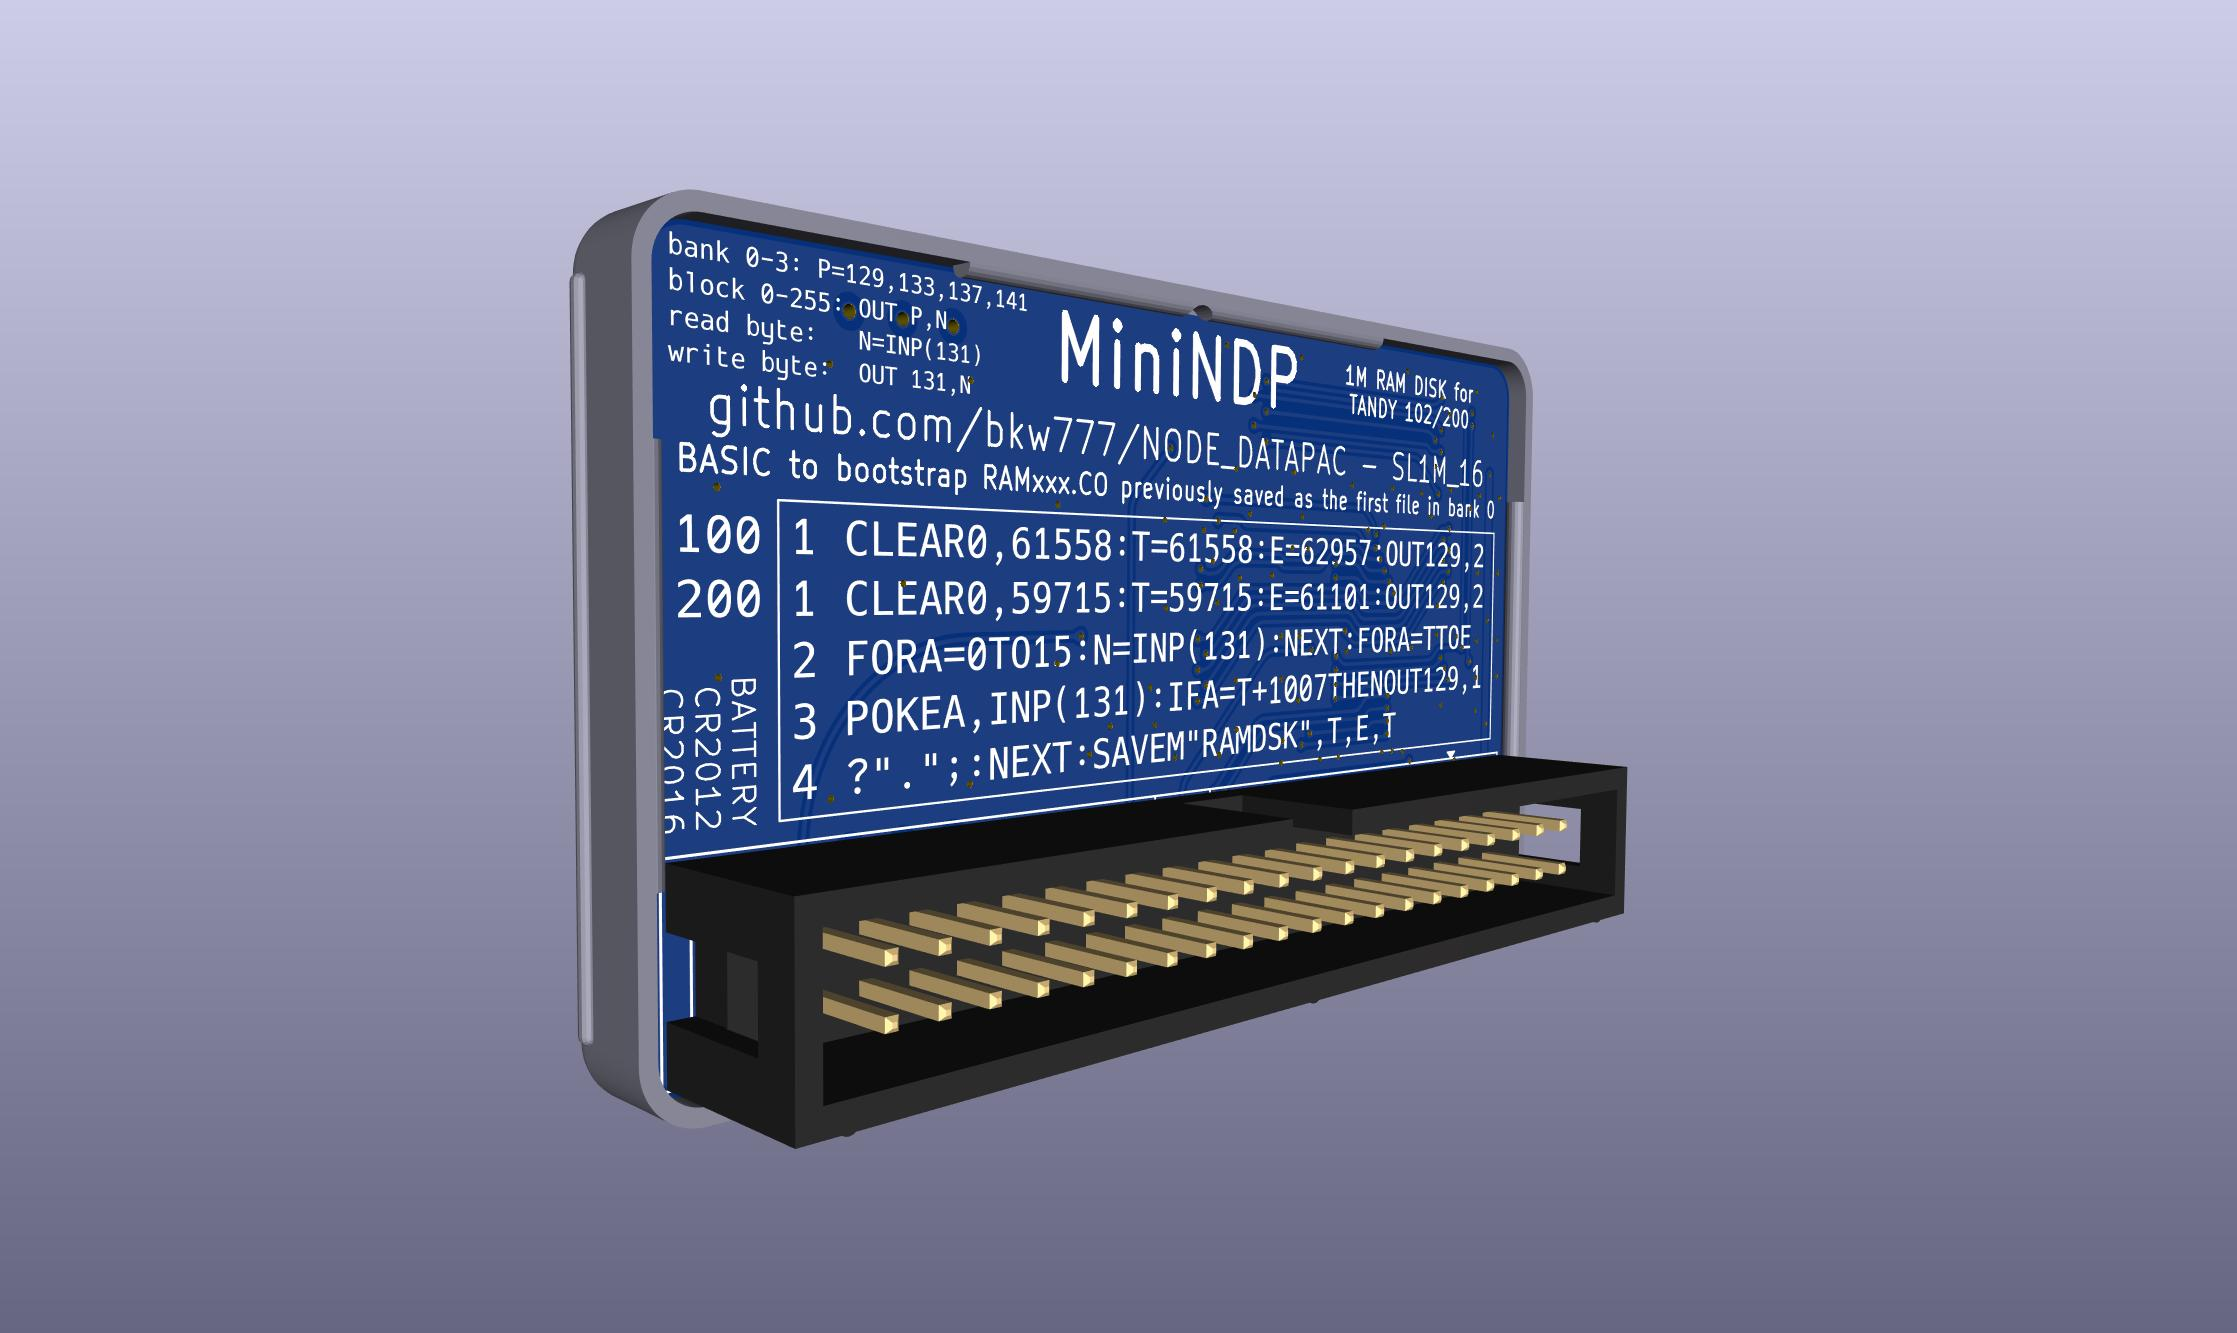
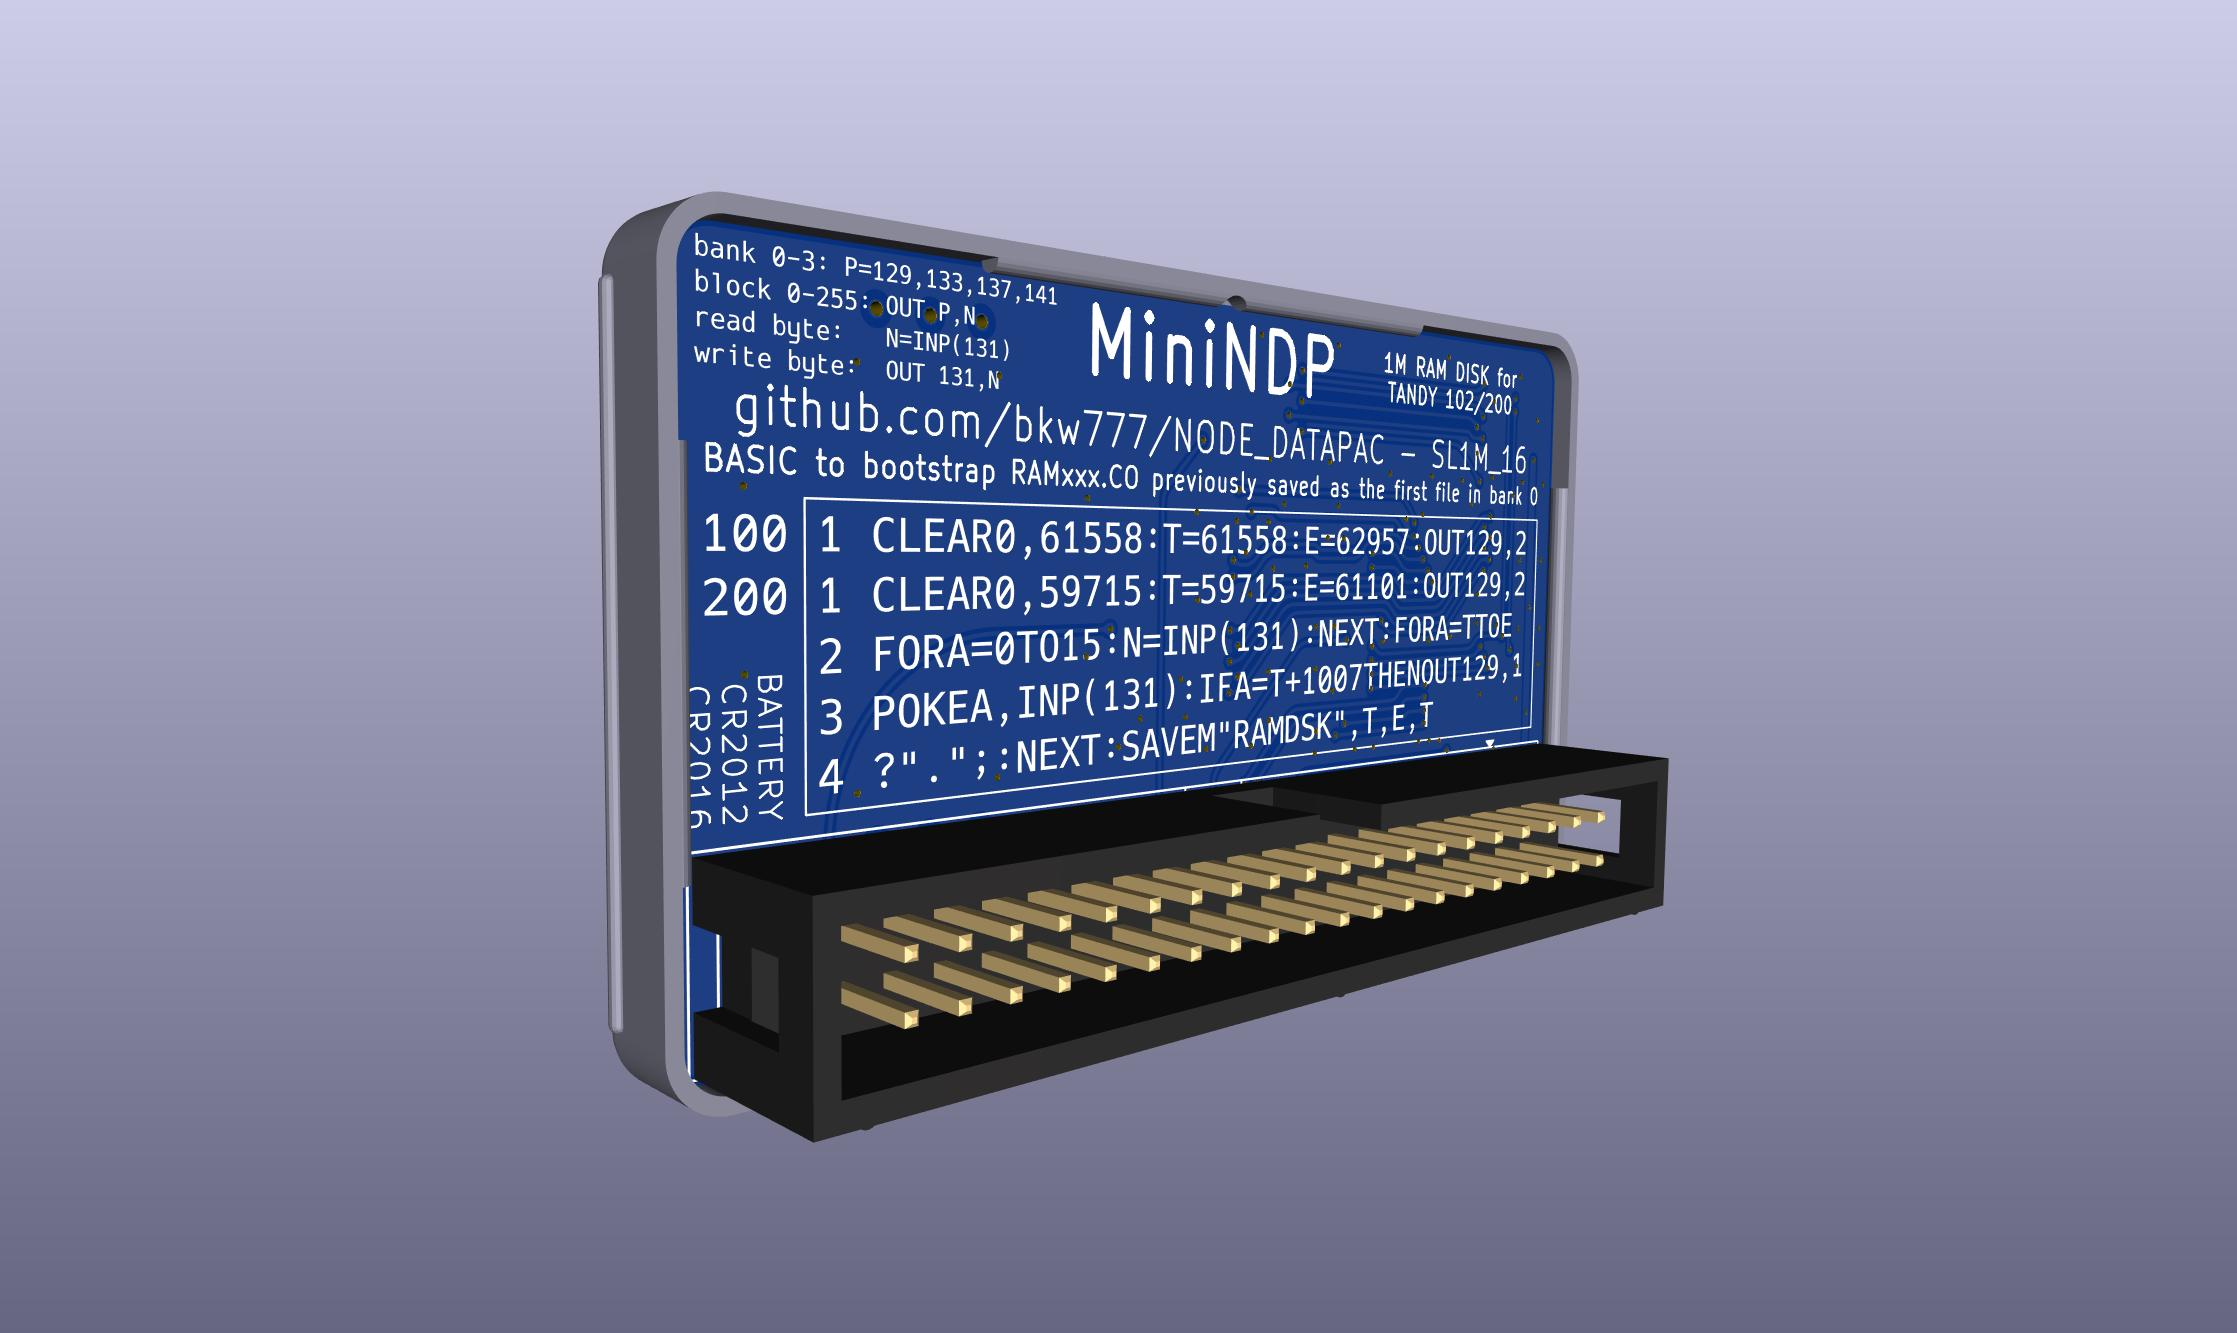
readme links to pcbs & covers, sl1m remove via from batt terminal

Changed region(s): [[0.2468, 0.123, 0.7711, 0.8612]]

diff --git a/README.md b/README.md
@@ -366,7 +366,7 @@ Unlike the original DATAPAC, this actually fits into the bus port on the Model 2
 [MiniNDP.bom.csv](PCB/out/MiniNDP.bom.csv)
 
 BOM: [DigiKey](https://www.digikey.com/short/m4h7bmh0)  
-[MiniNDP EZ1M_14 PCB @ OSHPark](https://oshpark.com/shared_projects/pUS0y3tZ)  
+[MiniNDP EZ1M_16 PCB @ OSHPark](https://oshpark.com/shared_projects/7Jpm6F6c)  
 Cover: [MiniNDP_Cover.stl](COVER/out/MiniNDP_Cover.stl) -- [Cover @ JawsTec](https://shop.jawstec.com/3d-printed-minindp-cover_p658.php)  
 [Both PCB & Cover @ PCBWAY](https://www.pcbway.com/project/shareproject/MiniNDP_mini_Node_DataPac_d08018c4.html)  
 
@@ -383,7 +383,7 @@ Cover: [MiniNDP_Cover.stl](COVER/out/MiniNDP_Cover.stl) -- [Cover @ JawsTec](htt
 ![](PCB/out/MiniNDP_u1M.svg)  
 
 BOM: [MiniNDP_u1M.bom.csv](PCB/out/MiniNDP_u1M.bom.csv)  
-[MiniNDP u1M_030 PCB @ OSHPark](https://oshpark.com/shared_projects/fK7yqT9X)
+[MiniNDP u1M_032 PCB @ OSHPark](https://oshpark.com/shared_projects/ICZ4DXzf)
 
 ## MiniNDP M10 - For Olivetti M-10
 
@@ -397,7 +397,7 @@ BOM: [MiniNDP_u1M.bom.csv](PCB/out/MiniNDP_u1M.bom.csv)
 ![](PCB/out/MiniNDP_M10.svg)  
 
 BOM: [MiniNDP_M10.bom.csv](PCB/out/MiniNDP_M10.bom.csv)  
-[MiniNDP M10_30 PCB @ OSHPark](https://oshpark.com/shared_projects/qC7AqhGF)  
+[MiniNDP M10_32 PCB @ OSHPark](https://oshpark.com/shared_projects/vL1oz5dB)  
 Cover for M10: [MiniNDP_Cover_M10.stl](COVER/out/MiniNDP_Cover_M10.stl) -- [M10 Cover @ JawsTec](https://shop.jawstec.com/3d-printed-minindpm10-cover_p657.php)
 
 ## [Other Versions](MiniNDP_variants.md)  

diff --git a/MiniNDP_variants.md b/MiniNDP_variants.md
@@ -16,8 +16,9 @@ The battery holder is technically for CR2012, but you can stuff a CR2016 in it.
 ![](PCB/out/MiniNDP_SL1M.bottom.jpg)  
 ![](PCB/out/MiniNDP_SL1M.svg)  
 [MiniNDP_SL1M.bom.csv](PCB/out/MiniNDP_SL1M.bom.csv)  
-[MiniNDP SL1M_12 PCB @ OSHPark](https://oshpark.com/shared_projects/D0EqGMp2)  
-THIN Cover: [MiniNDP_Cover_THIN.stl](COVER/out/MiniNDP_Cover_THIN.stl)
+[MiniNDP SL1M_16 PCB @ OSHPark](https://oshpark.com/shared_projects/UxbSsLw0)  
+THIN Cover: [MiniNDP_Cover_THIN.stl](COVER/out/MiniNDP_Cover_THIN.stl)  
+[THIN cover @ JawsTec](https://shop.jawstec.com/3d-printed-minindp-sl1mt512-cover_p659.php)
 
 ### EZ512 - easy-build 512K
 * All larger parts for easier hand-soldering.  
@@ -42,7 +43,8 @@ Cover: Use the standard EZ1M cover
 ![](PCB/out/MiniNDP_T512.bottom.jpg)  
 ![](PCB/out/MiniNDP_T512.svg)  
 [MiniNDP_T512.bom.csv](PCB/out/MiniNDP_T512.bom.csv)  
-Cover: Use either the standard cover or the thin cover depending on if you install the CR2032 holder or the CR2012 holder
+Cover: Use either the standard cover or the thin cover depending on if you install the CR2032 holder or the CR2012/CR2016 holder  
+[THIN cover @ JawsTec](https://shop.jawstec.com/3d-printed-minindp-sl1mt512-cover_p659.php)
 
 ### MiniNDP "OG"
 * Circuit is more like the original NODE version.  
